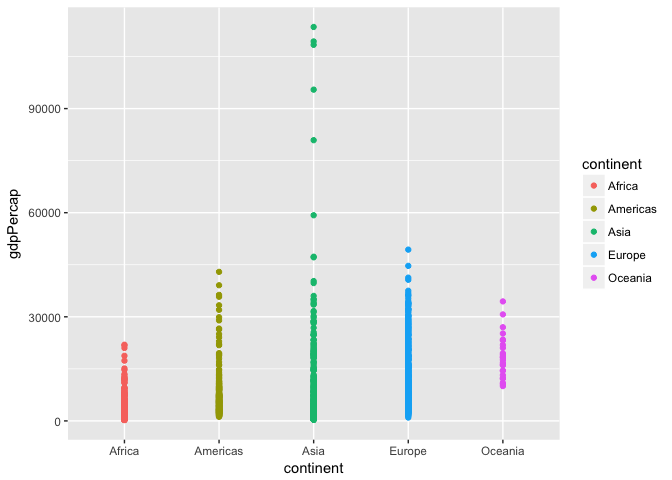
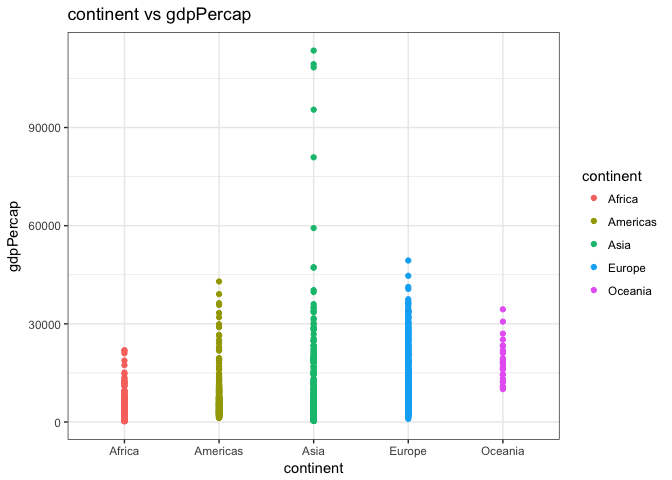
some change

diff --git a/hw03/hw03.md b/hw03/hw03.md
@@ -43,7 +43,7 @@ knitr::kable(out)
 Combined the above table and this plot, we could see the maximum and minimum of gdpPercap for each continent more clearly.
 
 ``` r
-ggplot(gapminder,aes(x=continent,y=gdpPercap))+geom_point(aes(color=continent))
+ggplot(gapminder,aes(x=continent,y=gdpPercap))+geom_point(aes(color=continent))+theme_bw()+labs(title="continent vs gdpPercap")
 ```
 
 ![](hw03_files/figure-markdown_github-ascii_identifiers/unnamed-chunk-3-1.png)
@@ -63,7 +63,7 @@ gapminder$year[gapminder$gdpPercap==max(gapminder$gdpPercap)]
 
     ## [1] 1957
 
-So, it is Asia **Q2** Look at the spread of GDP per capita within the continents.
+So, it is Asia achieved the largest gdpPercap in 1957. **Q2** Look at the spread of GDP per capita within the continents.
 
 ``` r
 out1<-gapminder%>%
